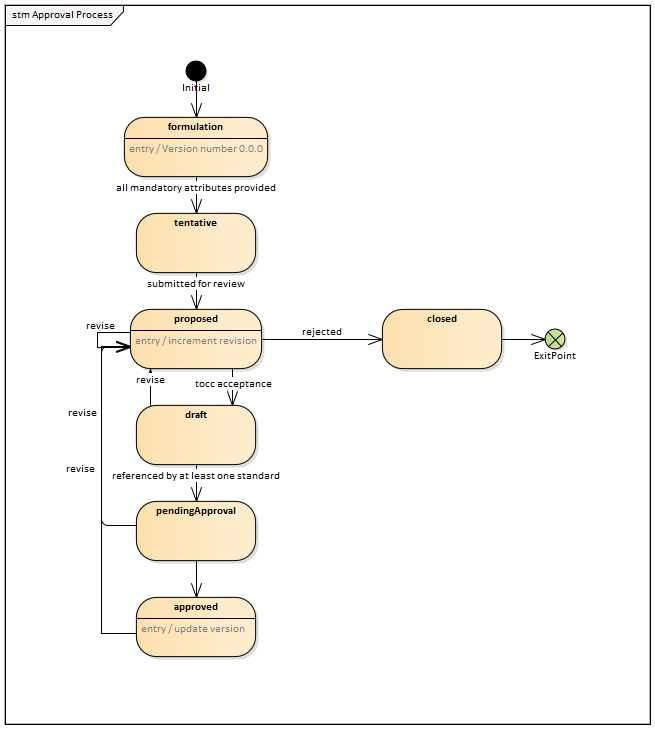
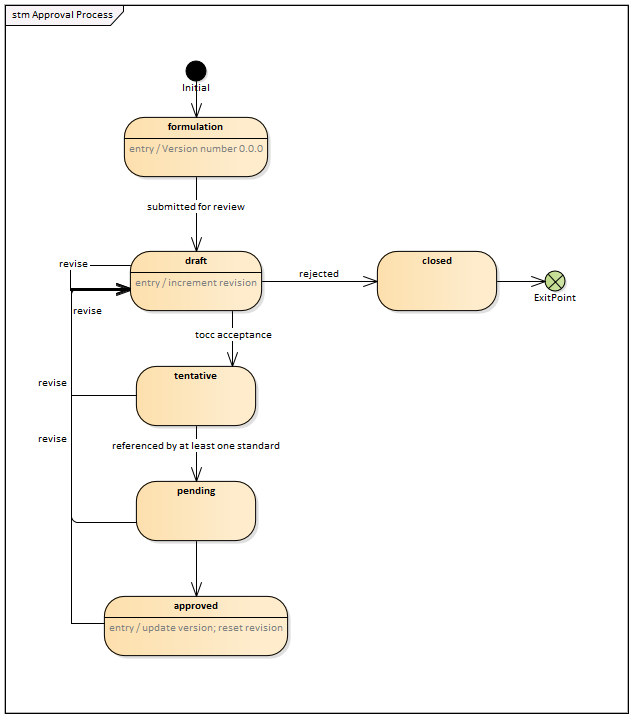
Update governance.md

diff --git a/management/Governance.md b/management/Governance.md
@@ -1,35 +1,59 @@
 ## Scope
 
-This document defines how the content of the City Data Architecture is developed and managed.
+### Scope of this document
 
-The City Data Architecture defines data elements that are used within Smart City environments and provides context to this data by identifying:
+This document defines how the content of the city data model and reference architecture (CDMRA) is developed and managed. Other documents define the details about how the CDMRA is developed and presented.
 
-- How the data is used to satisfy user needs
-- How the logical data definitions are transformed to and from formats defined by interface specifications
-- Metadata that specifies the semantics of the data and the rules for managing the data
+### Purpose of CDMRA
 
-Smart City environments are divided into multiple subdomains, such as transportation, health, governance, power, etc. The City Data Architecture is envisioned to document data that is shared across domains and within individual domain areas. It is recognized that data within a domain will likely only be of interest to those within that domain; as a result, the management structure is designed to accommodate the development of data definitions by those experts with a specific interest in the data out extensive bureaucratic overhead from other domains.
+The purpose of the CDMRA is to:
 
-By adopting a model that establishes a common agreement on the semantics of data, various subdomains within a Smart City will be able to more easily share information with one another. The City Data Architecture does not attempt to define how to share this data (i.e., the syntax); it merely assists in integrating data from disparate protocols by defining common data semantics to which all protocol data can be mapped.
+1. assist experts in producing and building consensus around the definitions that are eventually captured in the city data model (CDM) portion of the CDMRA and
+2. provide users of these data definitions the necessary context of the data so that they can fully appreciate the intent of the data.
 
-It is envisioned that existing protocols will define how to transform their data into the logical City Data Architecture format; by so doing, they will have clear transformation rule to share data with all other protocols that have defined transformation rules and data. Hopefully, new protocols will consider the content of the City Data Architecture prior to defining their own data and will be able to adopt formats that promote easy transformations.
+These dual purposes are achieved by supplementing the CDM with the Use Case and Interface Specification Views, which provide justification and context for the data defined by the CDM.
 
-The end result of the model will be to produce a data model that will facilitate data sharing among the many disparate systems that make up modern Smart Cities.
+The CDMRA formally defines the CDM; the other components of the CDMRA are only developed to the extent to support the needs of the CDM.
+
+### Purpose of the CDM
+
+The CDM A city data model enables city software applications to share information, plan, coordinate, and execute city tasks, and support decision making, by providing a precise, unambiguous representation of information and knowledge commonly shared within and across city services.
+
+### Scope of services covered by the CDMRA (and CDM)
+
+The CDMRA, and by inclusion the CDM, intends to provide a central reference for data definitions used within smart cities. However, it should be recognized that:
+
+- smart cities encompass a huge number of potential services, including those for transport, health care, governance, power, etc.
+- the CDMRA project is relatively new (starting in 2020)
+- its content is dependent on the contributions of experts from the various areas of smart city services
+
+As present, most of the work is focused on smart transport, including intelligent transport systems and transport planning, but the intent is to include all city services and experts from other service areas are encouraged to contribute.
+
+In fact, the governance process envisioned by this document recognizes that the development of data definitions for any one smart city service often needs to consider the needs of other smart city services so that the data defined by one service can be reused by another. For example, a transport service might monitor the location of a vehicle, but a health care service might need access to that location information if a vehicle occupant has a health issue. If the two services are to be properly integrated, both the transport domain and the health care domain need to agree on how location should be defined, which requires experts from both domains to be involved in the definition of location data.
+
+### Scope of technical specification
+
+The CDMRA intends to define the semantics of city data to a level of detail such that it can be used as a reference for data transformations from one interface format to another. For example, it will define the meaning of data, the relationships among data, and the preferred units for data (or mechanisms for defining units of measure).
+
+The CDM does not attempt to define representational form, encoding formats, or protocols used to exchange the data. However, before any element of the model is fully &quot;approved&quot;, at least one interface specification providing these rules must be identified and registered in the CDMRA. This ensures that the definitions provided in the model reflect real-world usage.
+
+It is envisioned that data transformations will be defined to translate data from specific protocols into their corresponding data elements contained within the CDM. Such transformation rules will facilitate the unambiguous translation of data among different protocols and avoid mistakes in translations. The CDMRA collaboration environment makes provisions to store this type of information but this information is not currently the focus of the CDMRA development.
 
 ## Understanding the Model
 
-While the primary goal of the City Data Architecture is to promote a common data model, learning the contents of a data model by itself is a bit like trying to understand a language by reading a dictionary. In practice, data models are most useful when presented in small chunks that can be directly related to a practical use of the data.
+While the primary goal of the CDMRA is to formally define the CDM, learning the contents of a data model by itself is a bit like trying to learn a language by reading a dictionary. In practice, data models are most useful when presented in small chunks that can be directly related to a practical use of the data.
 
-To promote comprehension, the City Data Architecture adopts a use-case approach to defining data. The use cases are defined within the Use Case View of the City Data Architecture using a standard template. Each use case identifies the data required by the use case and typically includes one or more class diagrams that depict the relationships among this data.
+To promote comprehension, the CDMRA adopts a use-case approach to defining data. The use cases are defined within the Use Case View of the CDMRA using a standard template. Each use case identifies the data required by the use case and typically includes one or more class diagrams that depict the relationships among this data.
 
 The Use Case View also includes hyperlinks into the Information View, which provides additional details about the data, including:
 
-1. Detailed definitions of each data concept required by the use case
+1. Detailed definitions of each data concept required by the use case (the City Data Model)
 2. Diagrams depicting how this data relates to other data (e.g., data that might not be used by the specific use case)
-3. Identification of specifications within the Specification View that define how the data is implemented in real-world interfaces
-4. Links to outside resources that provides additional context for the data
+3. Links to each use case that uses each data element
+4. Identification of interface specifications within the Interface View that define how the data is implemented in real-world interfaces
+5. Links to outside resources that provide additional context for the data (e.g., external reference architectures)
 
-The various parts of the City Data Architecture are summarized in Figure 1.
+The various parts of the CDMRA are summarized in Figure 1.
 
 ![](CDAOverview.png)
 
@@ -37,46 +61,57 @@ _Figure 1: City Data Architecture Overview_
 
 ## Contributing to the Model
 
-The City Data Architecture is an open-source, collaborative product developed by and for the technical community that designs, develops, and maintains Smart City systems, including systems for any of the Smart City sub-areas, called domains.
+The CDMRA is an open-source, collaborative product developed by and for the technical community that designs, develops, and maintains smart city services and the systems that provide these services. These services are often categorized into one of several smart city sub-areas, called domains. These domains include, but are not limited to:
+
+- smart government
+- smart transportation
+- smart education
+- smart health care
+- smart home
+- smart campus
+
+Each of these domains are also divided into sub-domains to further refine aspects of the model.
 
 ### Approval Process
 
-Submittals to the City Data Architecture can be made by any registered user of the cooperative environment. To register contact Mark Fox at the University of Toronto. Once registered, a user is able to select his or her domains of interest within the profile page of the website.
+Submittals to the CDMRA can be made by any registered user of the cooperative environment, which is located at [https://www.smartdatamodel.org](https://www.smartdatamodel.org/). To register contact Mark Fox at the University of Toronto. Once registered, a user is able to select his or her domains of interest within the profile page of the website.
 
 Registered users may submit:
 
-- Proposals for any collaborative architecture element; these elements are fully documented and copyrighted as an integral part of the City Data Architecture
-- Contributions for any catalogued architecture element; these elements remain copyrighted by their original source and the City Data Architecture might only include a reference to where the full definition can be found in the original source
+- proposals for any _ **collaborative architecture element** _: these elements are fully documented and copyrighted as an integral part of the CDMRA;
+- contributions of any _ **catalogued architecture element** _: these elements remain copyrighted by their original source and the CDMRA will often only include a reference to where the full definition can be found in the original source.
 
-All elements of the City Data Architecture, except for the External Specification elements, are collaborative elements. It is envisioned that External Specification elements will be submitted from multiple sources. Each source is likely to have its own copyright statement. If the source allows for reproduction of content, the submitter will be allowed to provide this content along with the copyright statement that applies to the content. Sources that do not allow for reproduction shall only be referenced using fair use of its content.
+Catalogued architecture elements include external interface specifications and other external resources. It is envisioned that catalogued elements from multiple sources will be submitted. Each catalogued element is subject to its own copyright statement. If the source allows for reproduction of content, the submitter may provide this content along with the copyright statement that applies to the content. Sources that do not allow for reproduction shall only be referenced using fair use of its content. As the content of these external elements are defined by external organizations, no CDMRA approval process is defined other than efforts to ensure that copyrights are respected.
 
-Submittals of collaborative elements follow the approval process described in Figure 2 and described below.
+Collaborative architecture elements include all elements of the CDMRA, except for the external interface specifications and external resources. Submittals of collaborative elements follow the approval process depicted in Figure 2 and described below.
 
 ![](maturity.png)
 
 _Figure 2: Maturity Levels of Model Elements_
 
-An architectural element is initiated in the &quot;formulation&quot; state. Can the entry be viewed by others? Can others revise the content when in this state? Once the registered user has provided syntactically valid content for all mandatory fields for the element, the element will transition to the &quot;tentative&quot; state. Can the entry be viewed by others? Can others revise the content when in this state (or perhaps the originator can transfer ownership)? If others can see/edit, can they submit for review? Once the registered user is satisfied with the metadata entered for the architectural element in the &quot;tentative&quot; state, it may be submitted for review, whereupon it enters the &quot;proposed&quot; state. What happens if the user attempts to delete a mandatory item? Does the state revert to &quot;formulation&quot; or does the deletion fail (i.e., you allow change but not deletion)?
+An architectural element can be initiated in the &quot;formulation&quot; state by any registered user. While in this state, the entry is publicly visible as any other entry, but is not yet flagged for review by any data steward, the originating registered user retains ownership (i.e., editing rights), and edits to the entry&#39;s attributes do not affect the version number.
 
-Upon each entry/re-entry into the &quot;proposed&quot; state, the revision number is incremented, and control of the element is passed to the appropriate domain data steward as defined by the domain and subdomain metadata for the element.
+Version numbers shall be in the form of &quot;\&lt;major version\&gt;.\&lt;minor version\&gt;.\&lt;revision\&gt;-\&lt;state code\&gt;&quot;. Elements in the &quot;formulation&quot; state shall always be identified as version &quot;0.0.0-F&quot;; Once the registered user is satisfied with the metadata entered for the architectural element, the element may be submitted for review, whereupon it enters the &quot;draft&quot; state and control of the element is passed to the appropriate domain data steward as defined by the domain and subdomain metadata for the element.
 
-Version numbers shall be in the form of &quot;\&lt;major version\&gt;.\&lt;minor version\&gt;.\&lt;revision\&gt;-\&lt;state code\&gt;&quot;. Elements in the &quot;tentative&quot; state shall always be identified as version &quot;1.0.0-T&quot;; upon first entry into the &quot;proposed&quot; state, the element will be identified as version &quot;1.0.1-P&quot;.
+Upon each entry/re-entry into the &quot;draft&quot; state, the revision number is incremented to the next unique integer value for the version number; the version number does not change. Upon first entry into the &quot;draft&quot; state, each element will be identified as version &quot;0.0.1-D&quot;.
 
-The domain data steward will review the element to determine if the element is assigned to the proper domain and subdomain. At least once a month, each domain data steward shall provide a report to all other domain data stewards identifying the data concepts proposed within the domain and any recommendations to change these assigned domains. These reports shall be reviewed monthly by the domain data stewards. The domain data steward shall implement any change to the domain and subdomain as agreed to by a simple majority of the domain data stewards present.
+The domain data steward will review the element to determine if the element is assigned to the proper domain and subdomain. At least once a month, the domain data stewards shall review all draft data concepts to ensure that they are assigned to the proper domain(s). The current owning data steward shall implement any change to the domain and subdomain as agreed to by a simple majority of the domain data stewards present and ownership shall pass to a new data steward as the rules dictate based on these assignments.
 
-Registered users can review and submit comments on any architectural element within the City Data Architecture with a state of &quot;proposed&quot; or above. Other registered users can respond to these comments. The preferred mechanism for submitting comments is to use the discussion forum on the architectural elements website page, but comments can also be verbally submitted during domain working group meetings. The domain data steward will guide these discussions towards resolution and make the changes that the working group agrees to. Each revision (or group of revisions performed in one action) to an architectural element will cause the element to be &quot;revised&quot; and re-enter the &quot;proposed&quot; state, whereupon the revision number is incremented.
+Any registered user can review and submit comments on any collaborative architectural element within the CDMRA. Any registered user can also respond to comments submitted by others. The preferred mechanism for submitting and responding to comments is to use the discussion forum on the page of the collaborative architectural element for which the comment applies, but comments can also be verbally submitted during domain working group meetings. The domain data steward will guide these discussions towards resolution and make the changes that the working group agrees to. Each revision (or group of revisions performed in one action) to an architectural element will cause the element to be &quot;revised&quot; and re-enter the &quot;draft&quot; state, whereupon the revision number is incremented.
 
-Once the domain working group has completed its review of the element, it can either decide to reject the proposed element, whereupon it transitions to the &quot;closed&quot; state and is archived with the state code of &quot;R&quot;, or can accept the element, whereupon it transitions to the &quot;draft&quot; state. The state code for the &quot;draft&quot; state is &quot;D&quot; (e.g., a draft element might have a version number of &quot;1.0.13-D&quot;).
+Once the domain working group has completed its review of the element, it can either decide to reject the draft element, whereupon it transitions to the &quot;closed&quot; state and is archived with the state code of &quot;C&quot;, or can accept the element, whereupon it transitions to the &quot;tentative&quot; state. The state code for the &quot;tentative&quot; state is &quot;T&quot; (e.g., a tentative element might have a version number of &quot;0.0.13-T&quot;).
 
-Comments received on elements in the &quot;draft&quot; state are handled in the same manner as with elements in the &quot;proposed&quot; state. If revisions are made, the element returns to the &quot;proposed&quot; state (whereupon the revision number is incremented) and may either remain there or may be elevated again by a new working group decision.
+Comments received on elements in the &quot;tentative&quot; state are handled in the same manner as with elements in the &quot;draft&quot; state. If revisions are made, the element returns to the &quot;draft&quot; state (whereupon the revision number is incremented) and may either remain there or may be elevated again by a new decision by the domain working group.
 
-If an element in the &quot;draft&quot; state includes a reference to at least one specification model, it automatically transitions to the &quot;pendingApproval&quot; state, with the state code of &quot;pA&quot; (e.g., version number &quot;1.0.13-pA&quot;). Comments received on elements in the &quot;pendingApproval&quot; state are handled in the same manner as with elements in the &quot;proposed&quot; and &quot;draft&quot; states.
+If an element in the &quot;tentative&quot; state includes a reference to at least one interface specification, it automatically transitions to the &quot;pending&quot; state, with the state code of &quot;P&quot; (e.g., version number &quot;0.0.13-P&quot;). Comments received on elements in the &quot;pending&quot; state are handled in the same manner as with elements in the &quot;draft&quot; and &quot;tentative&quot; states.
 
-Once a quarter, the domain data steward shall provide a report to the domain working group that identifies elements that are in the &quot;pendingApproval&quot; state for the entire Smart City Architecture. Once a specific revision of an element has been in the pendingApproval state for at least 120 days without any comments or at least 180 days without any revisions, the working group may (but is not required) to promote the element to the &#39;approved&#39; state, with the state code of &quot;A&quot; (e.g., version number &quot;1.0.13-A&quot;). Comments received on elements in the &quot;approved&quot; state are handled in the same manner as with elements in the other states; however, upon exiting the &quot;approved&quot; state, the minor version number is incremented and the revision number is reset to zero. NOTE: The revision number is then incremented upon entering the &quot;proposed&quot; state, so the version number after &quot;1.0.13-A&quot; would be &quot;1.1.1-P&quot;.
+At least once a quarter, all registered users shall be notified of the elements that are in the &quot;pending&quot; state for the entire CDMRA, which will serve as a call for comments prior to formal approval. Once a specific revision of an element has been in the pending state for at least 180 days without any revisions, the working group may (but is not required to) promote the element to the &#39;approved&#39; state, with the state code of &quot;A&quot;.
 
-The domain data steward will assess whether revised architectural elements are backward compatible with their previously approved versions. For elements that are not backward compatible, the domain data steward will increase the major version number to the first previously unused major version integer for the element; this act will automatically reset the minor revision number (e.g., &quot;1.1.1-P&quot; would likely become &quot;2.0.1-P&quot; unless a previous attempt to revise version &quot;1.0.13-A&quot; was unsuccessful – e.g., and resulted in &quot;2.0.10-R&quot; as an example – in which case, the version number would increment to the next unused major version – e.g., &quot;3.0.1-P&quot;).
+Upon entry to the approved state, the version number shall be updated and the revision number shall be reset to zero. If this is the first approved version of the element or if the revisions resulted in changes that are not backwards compatible, the major version number shall be incremented and the minor version number shall be reset to zero; otherwise, the major version number shall not change and the minor version number shall increment. As a result of applying these rules, all approved elements will have a revision number of zero.
 
-The above should work pretty well, but we will have to consider how each correspondence rule might affect the revision process. For example, if I add a property to a class, does that count as a revision of the class? If I update a diagram to show the new element, does that affect every element that includes that diagram (or is the diagram its own separate element)?
+Comments received on elements in the &quot;approved&quot; state are handled in the same manner as with elements in the other states; however, elements in the approved state are permanently retained within the system for reference whereas elements in other states are only archived within the histories of what is ultimately approved or closed.
+
+NOTE: A revision to an approved element will typically result in a revision number of one (e.g., 2.0.1-D), but can result in a higher revision number (e.g., 2.0.5-D) if a previous effort to revise the approved item failed and resulted in a closed element (e.g., 2.0.4-C).
 
 ### Preferred Sequence of Content
 
@@ -86,23 +121,29 @@ While contributions may be made in any order, the mandatory fields of elements a
 
 _Figure 3: Process for Adding Content_
 
-The content of the City Data Architecture is intended to be based on use cases so that users of the architecture can understand the context in which data might be used by end systems. The use case is formally specified using the use case template as defined by the Use Case Specification Model Kind, which may include a use case diagram. The use case specification will eventually be supplemented with one or more Information Flow Class Diagrams but these might not be present upon initial submittal.
+The content of the CDMRA is intended to be based on use cases so that users of the architecture can understand the context in which data might be used by end systems. The use case is formally specified using the use case template as defined by the Use Case Specification Model Kind and may include a use case diagram. The use case specification will eventually be supplemented with one or more information flow class diagrams but are typically not present upon initial submittal; rather this information is typically developed near the end of the process.
 
-The use case specification includes the ability to link to external references to define the reference deployment architecture, which identifies the physical system components that exchange information to realize the use case and the descriptions of the flows between the components. This information can provide valuable context for how the use case is envisioned to be implemented, but it outside the scope of the City Data Architecture and the conventions used to document this information might vary by domain.
+The use case specification should trace to one or more information flows, which identify the information to be exchanged to fulfil the use case. The preferred mechanism for identifying this information is to link to an external reference architecture that defines a deployment view that describes these information exchanges, but the data can be provided in simple textual form, if such a reference architecture does not exist. This description can provide valuable context for how the use case is envisioned to be implemented, but as this information typically has already been defined by outside efforts, the CDMRA does not define any conventions on how this is to be documented.
 
-The next step in the process is to identify any existing specifications that have already defined data for this type of data or information flow. The goal of the City Data Architecture is to leverage existing efforts as much as possible, but there is recognition that in many cases, there are several existing standards that define the same core data. By identifying these various sources up front, we can gain a better understanding of where the entire industry is rather than basing our design off of a single effort.
+The next step in the process is to identify existing interface specifications that have already defined data for the information flow. The goal of the CDMRA is to leverage existing efforts as much as possible, but there is recognition that in many cases, there are multiple standards that define the same core data, while in other cases there might not be any standards. By explicitly identifying the source standards, we can gain a better understanding of where the entire industry is rather than basing our design off of a single effort while also informing the community of the standards that we have considered; if they are familiar with other related standards, they should be encouraged to submit this content.
 
-Once we have identified various source specifications, we can begin the work of creating our City Data Model content. We start with defining the key terms (i.e., the classes within our model) and then continue to define the data elements (i.e., the properties of each class).
+Of course, the challenge in referencing a wide range of external specifications is that they will each document their data in a different manner and will typically provide much more information than what we need to show within the CDMRA. The next step is to normalize this external information into a standard presentation format by creating UML class diagrams of each data element associated with each reference interface specification for each relevant flow. This will simplify the task of deriving the CDM while also establishing the basis by which transformations of data can be documented.
+
+Once we have identified various source interface specifications and presented their information in a normalized format, we can begin the work of specifying our data within the CDM. This effort starts with defining the key terms (i.e., the major classes within our model) and then continues to define the data elements (i.e., the properties of each class).
+
+Once we have defined all of our data for our model, we can then prepare class diagrams for each information flow associated with our use case and link these to the use case specification for easy reference.
+
+Finally, once we have considered multiple use cases, we can begin to build more meaningful subject-area class diagrams that show the big picture of how all of the data within a domain works together to achieve our goals.
 
 ## Roadmap
 
-The City Data Architecture is intended to specify the semantics of all data concepts that might be used within a Smart City environment, including data used within a single domain. This is a massive undertaking that will likely take decades to mature and will never be &quot;done&quot;. Managing such a large effort requires a management roadmap that identifies the major topics of current development and the major milestones along the way. This roadmap will be updated as the City Data Architecture matures and is highly dependent on the volunteer efforts from each domain.
+The CDMRA is intended to specify the semantics of all data concepts that might be used within a smart city environment, including data used within a single domain. This is a massive undertaking that will likely take decades to mature and will never be &quot;done&quot;. Managing such a large effort requires a management roadmap that identifies the major topics of current development and the major milestones along the way. This roadmap will be updated as the CDMRA matures and is highly dependent on the volunteer efforts from each domain.
 
-The current roadmap focuses on activities to achieve the following major milestones in order or priority:
+The current roadmap focuses on activities to achieve the following major milestones in order of priority:
 
-1. Defining the architecture framework for the City Data Architecture. This document will define the viewpoints, model kinds, and correspondence rules that will be used to document the City Data Architecture per ISO 42010. It will also clearly identify the fields that are deemed to be mandatory prior to elevating an element to the &quot;tentative&quot; state.
-2. Defining the governance rules for the City Data Architecture as proposed by this document, which how content is contributed and approved for the architecture.
-3. Developing prototype content to demonstrate how architectural elements should be captured within the City Data Architecture. The current intent is that this will focus on use cases related to routing (e.g., real-time navigational routing, pre-trip navigational routing, routing of public transport lines, etc.).
+1. Defining the architecture framework for the CDMRA. This includes the definition of the viewpoints, model kinds, and correspondence rules that will be used to document the CDMRA per ISO 42010. It will also clearly identify the fields that are deemed to be mandatory prior to elevating an element to the &quot;tentative&quot; state.
+2. Defining the governance rules for the CDMRA as proposed by this document, which defines how content is contributed and approved for the architecture.
+3. Developing prototype content to demonstrate how architectural elements should be captured within the CDMRA. The current intent is that this will focus on use cases related to routing (e.g., real-time navigational routing, pre-trip navigational routing, routing of public transport lines, etc.).
 4. Developing specific domains based on volunteer activity. Interest has already been expressed for the following topics:
   1. Transportation planning
   2. Kerbside management
@@ -115,7 +156,7 @@ How does one get support in contributing to the architecture?
 
 ## Credits
 
-The City Data Model is managed and hosted by the World Wide Web Consortium (W3C), but it represents a collaborative effort of many partners, which currently includes:
+The CDMRA is managed and hosted by the World Wide Web Consortium (W3C), but it represents a collaborative effort of many partners, which currently includes:
 
 - ISO/IEC JTC1 WG 11
 - ISO TC 204
@@ -125,4 +166,6 @@ The City Data Model is managed and hosted by the World Wide Web Consortium (W3C)
 
 ## Copyright
 
-The content of the City Data Architecture shall by copyrighted under the ??? License.
+The content of the CDMRA shall by copyrighted under the ??? License.
+
+[1](#sdfootnote1anc) The listed domains equate to the Smart Application Layer entities defined in ISO 30145-2.
